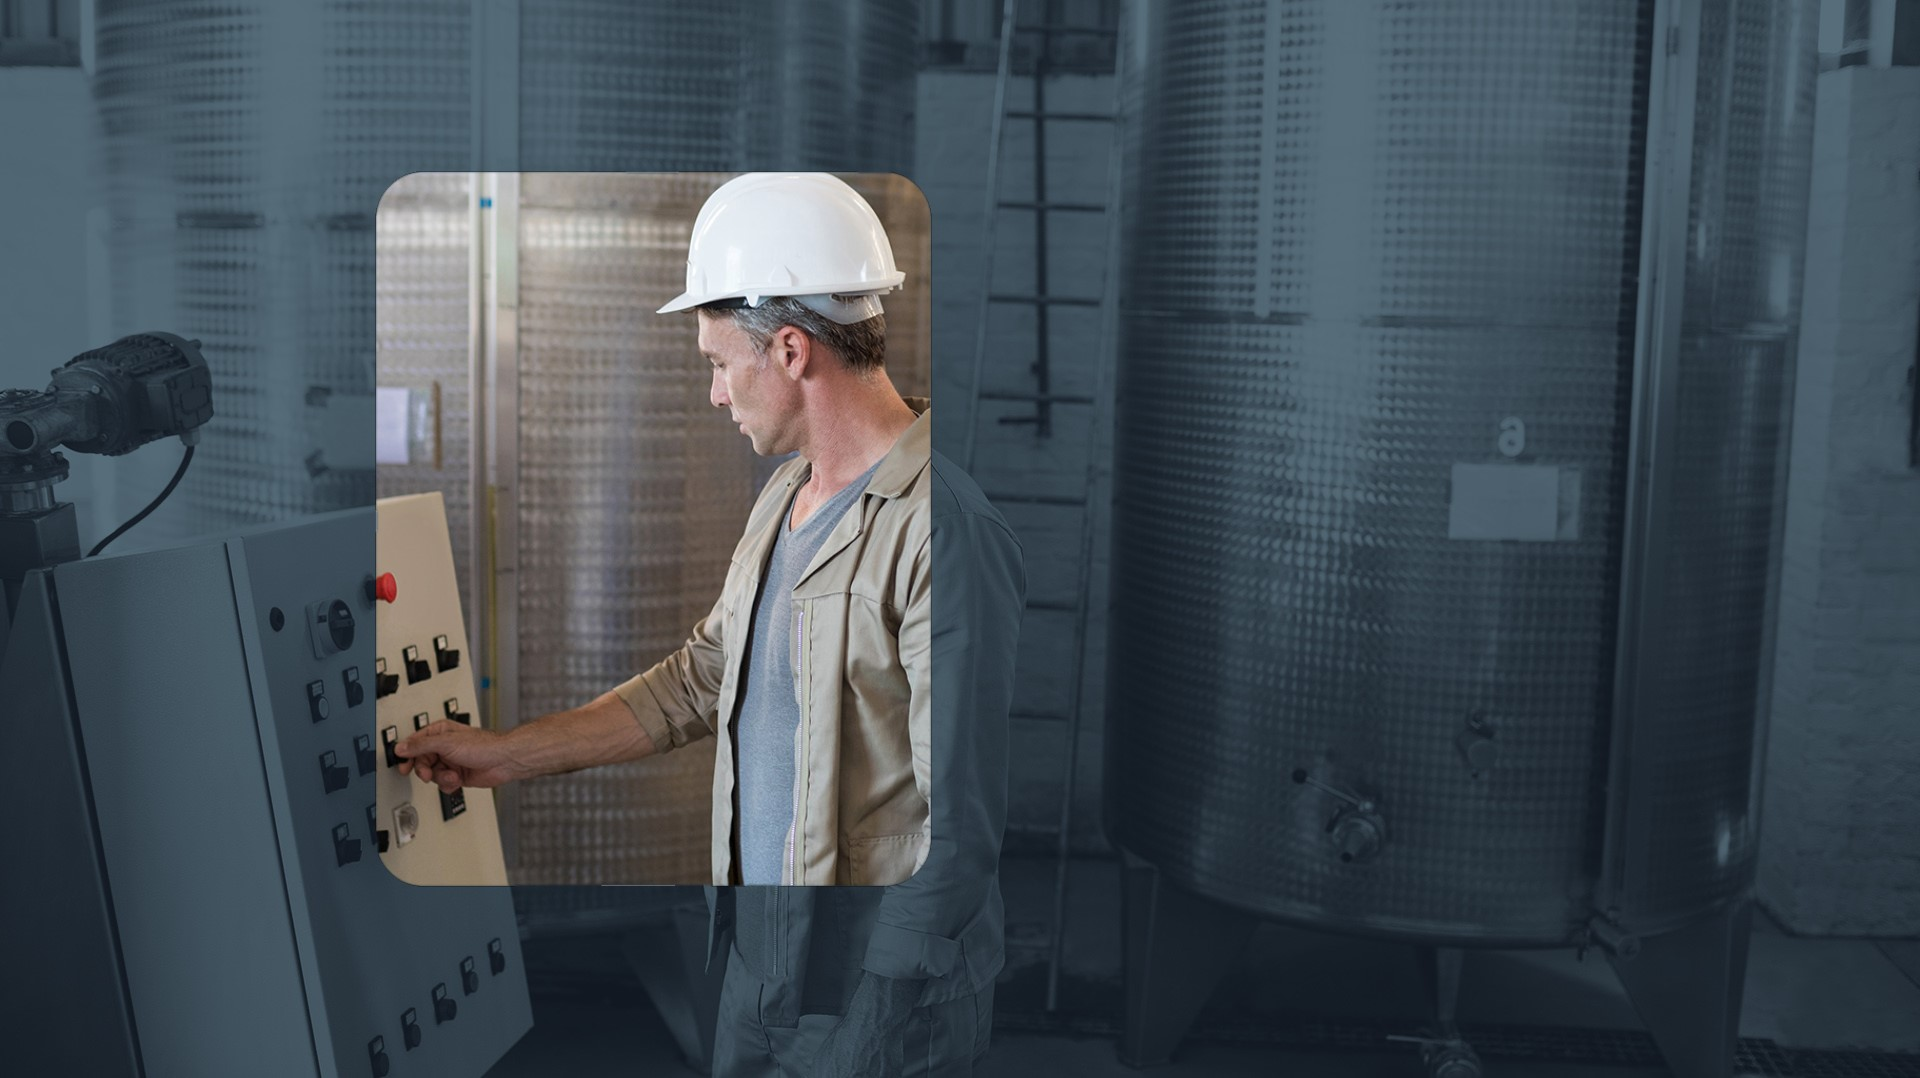
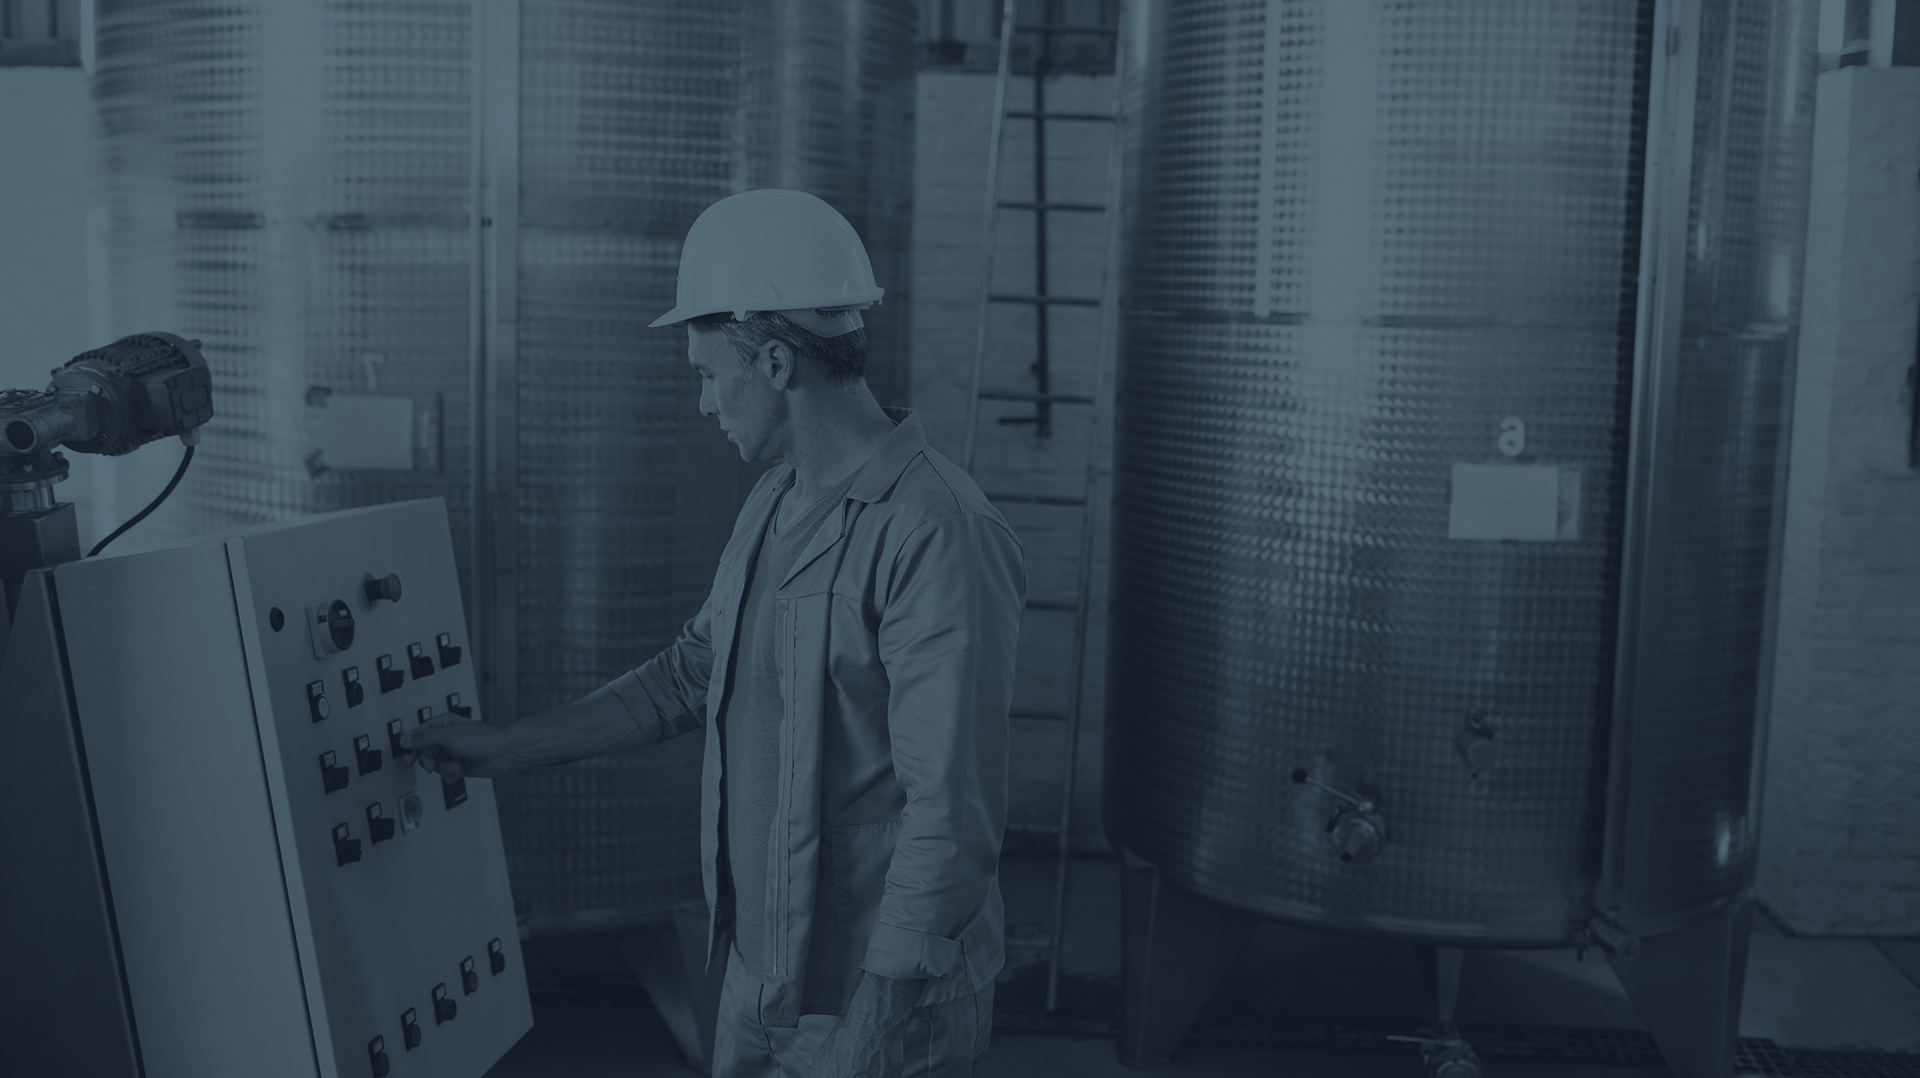
Acertando responsividade no carousel

Changed region(s): [[0.1875, 0.1531, 0.5, 0.8265]]

diff --git a/views/css/style.css b/views/css/style.css
@@ -39,7 +39,6 @@ header .nav-item{
 /* BANNER */
 
 #banner{
-    background: ;
     background: url('../img/Banner.svg') no-repeat center center;
     background-size: cover;
     height: 100vh;
@@ -174,17 +173,40 @@ header .nav-item{
     background: url('../img/c01.jpg') no-repeat center center;
     background-size: cover;
     width: 100%;
-    height: auto;
+    height: 85vh;
 }
 
-#solucoes .carousel-img{
+#solucoes .utilities{
+    background: url('../img/c02.jpg') no-repeat center center;
+    background-size: cover;
     width: 100%;
-    height: auto;    
+    height: 85vh;
+}
+
+#solucoes .temp{
+    background: url('../img/c03.jpg') no-repeat center center;
+    background-size: cover;
+    width: 100%;
+    height: 85vh;
+}
+
+#solucoes .track{
+    background: url('../img/c04.jpg') no-repeat center center;
+    background-size: cover;
+    width: 100%;
+    height: 85vh;
+}
+
+#solucoes .parking{
+    background: url('../img/c05.jpg') no-repeat center center;
+    background-size: cover;
+    width: 100%;
+    height: 85vh;
 }
 
 #solucoes .carousel-titulo{
     position: absolute;
-    top: 20%;
+    top: 10%;
     left: 50%;
     font-weight: 700;
     font-size: 1.5rem;
@@ -195,13 +217,13 @@ header .nav-item{
     width: 25rem;
     height: 22rem;
     position: absolute;
-    bottom: 28%;
+    bottom: 18%;
     left: 45%;
 }
 
 #solucoes .carousel-texto{
     position: absolute;
-    bottom: 30%;
+    bottom: 20%;
     left: 45%;
     padding: 3rem 3rem 2rem 4rem;
     color: #fff;
@@ -227,7 +249,7 @@ header .nav-item{
 
 #solucoes .carousel-controles{
     position: absolute;
-    bottom: 22%;
+    bottom: 12%;
     left: 50%;
 }
 
@@ -247,5 +269,54 @@ header .nav-item{
 }
 
 @media only screen and (max-width: 992px) {
+    #solucoes .carousel-titulo{
+        position: absolute;
+        top: 10%;
+        left: 50%;
+        transform: translate(-50%, -50%);
+    }
 
+    #solucoes .bov{
+        background: url('../img/01_.jpg') no-repeat center center;
+    }
+    
+    #solucoes .utilities{
+        background: url('../img/02_.jpg') no-repeat center center;
+    }
+    
+    #solucoes .temp{
+        background: url('../img/03_.jpg') no-repeat center center;
+    }
+    
+    #solucoes .track{
+        background: url('../img/04_.jpg') no-repeat center center;
+    }
+    
+    #solucoes .parking{
+        background: url('../img/05_.jpg') no-repeat center center;
+    }
+
+    #solucoes .border-texto{
+        position: absolute;
+        top: 20%;
+        left: 7%;
+        width: 20rem;
+        height: 20rem;
+    }
+
+    #solucoes .carousel-texto{
+        position: absolute;
+        top: 25%;
+        left: 15%;
+        padding: 0;
+        color: #fff;
+        width: 17rem;
+    }
+
+    #solucoes .carousel-controles{
+        position: absolute;
+        bottom: 5%;
+        left: 50%;
+        transform: translate(-50%, -50%);
+    }
 }

diff --git a/views/home.php b/views/home.php
@@ -94,7 +94,6 @@
             <div class="carousel-solucoes">
                 <div class="solucao efeito bov">
                     <h6 class="carousel-titulo">SOLUÇÕES</h6>
-                    <!-- <img src="views/img/c01.jpg" class="carousel-img" alt="Fuse Bov"> -->
                     <img src="views/img/border.png" class="border-texto" alt="Borda do texto">
                     <div class="carousel-texto">
                         <h4 class="titulo-solucao">Fuse Bov</h4>
@@ -102,19 +101,17 @@
                         <a href="" class="btn btn-padrao btn-outline-success">Quero saber mais</a>
                     </div>
                 </div>
-                <div class="solucao efeito">
+                <div class="solucao efeito utilities">
                     <h6 class="carousel-titulo">SOLUÇÕES</h6>
-                    <img src="views/img/c02.jpg" class="carousel-img" alt="Fuse Utilities">
                     <img src="views/img/border.png" class="border-texto" alt="Borda do texto">
                     <div class="carousel-texto">
                         <h4 class="titulo-solucao">Fuse Utilities</h4>
-                        <p class="texto-solucao">Monitore o consumo de água, gás e energia elétrica e evite desperdícios, identifique vazamentos, aumente a segurança no trabalho e reduza custos.</p>
+                        <p class="texto-solucao mt-4 mb-4">Monitore o consumo de água, gás e <br>energia elétrica e evite desperdícios, identifique vazamentos, aumente a segurança no trabalho e reduza custos.<br></p>
                         <a href="" class="btn btn-padrao btn-outline-success">Quero saber mais</a>
                     </div>
                 </div>
-                <div class="solucao efeito">
+                <div class="solucao efeito temp">
                     <h6 class="carousel-titulo">SOLUÇÕES</h6>
-                    <img src="views/img/c03.jpg" class="carousel-img" alt="Fuse Temp">
                     <img src="views/img/border.png" class="border-texto" alt="Borda do texto">
                     <div class="carousel-texto">
                         <h4 class="titulo-solucao">Fuse Temp</h4>
@@ -122,19 +119,17 @@
                         <a href="" class="btn btn-padrao btn-outline-success">Quero saber mais</a>
                     </div>
                 </div>
-                <div class="solucao efeito">
+                <div class="solucao efeito track">
                     <h6 class="carousel-titulo">SOLUÇÕES</h6>
-                    <img src="views/img/c04.jpg" class="carousel-img" alt="Fuse Track">
                     <img src="views/img/border.png" class="border-texto" alt="Borda do texto">
                     <div class="carousel-texto">
                         <h4 class="titulo-solucao">Fuse Track</h4>
-                        <p class="texto-solucao">Saiba tudo sobre sua frota, rastreie seus ativos, otimize rotas, ganhe agilidade, reduza custos e tenha mais segurança sobre seus bens e serviços.</p>
+                        <p class="texto-solucao mt-4 mb-4">Saiba tudo sobre sua frota, rastreie seus ativos, otimize rotas, ganhe agilidade, reduza custos e tenha mais segurança sobre seus bens e serviços.</p>
                         <a href="" class="btn btn-padrao btn-outline-success">Quero saber mais</a>
                     </div>
                 </div>
-                <div class="solucao efeito">
+                <div class="solucao efeito parking">
                     <h6 class="carousel-titulo">SOLUÇÕES</h6>
-                    <img src="views/img/c05.jpg" class="carousel-img" alt="Fuse Parking">
                     <img src="views/img/border.png" class="border-texto" alt="Borda do texto">
                     <div class="carousel-texto">
                         <h4 class="titulo-solucao">Fuse Parking</h4>
